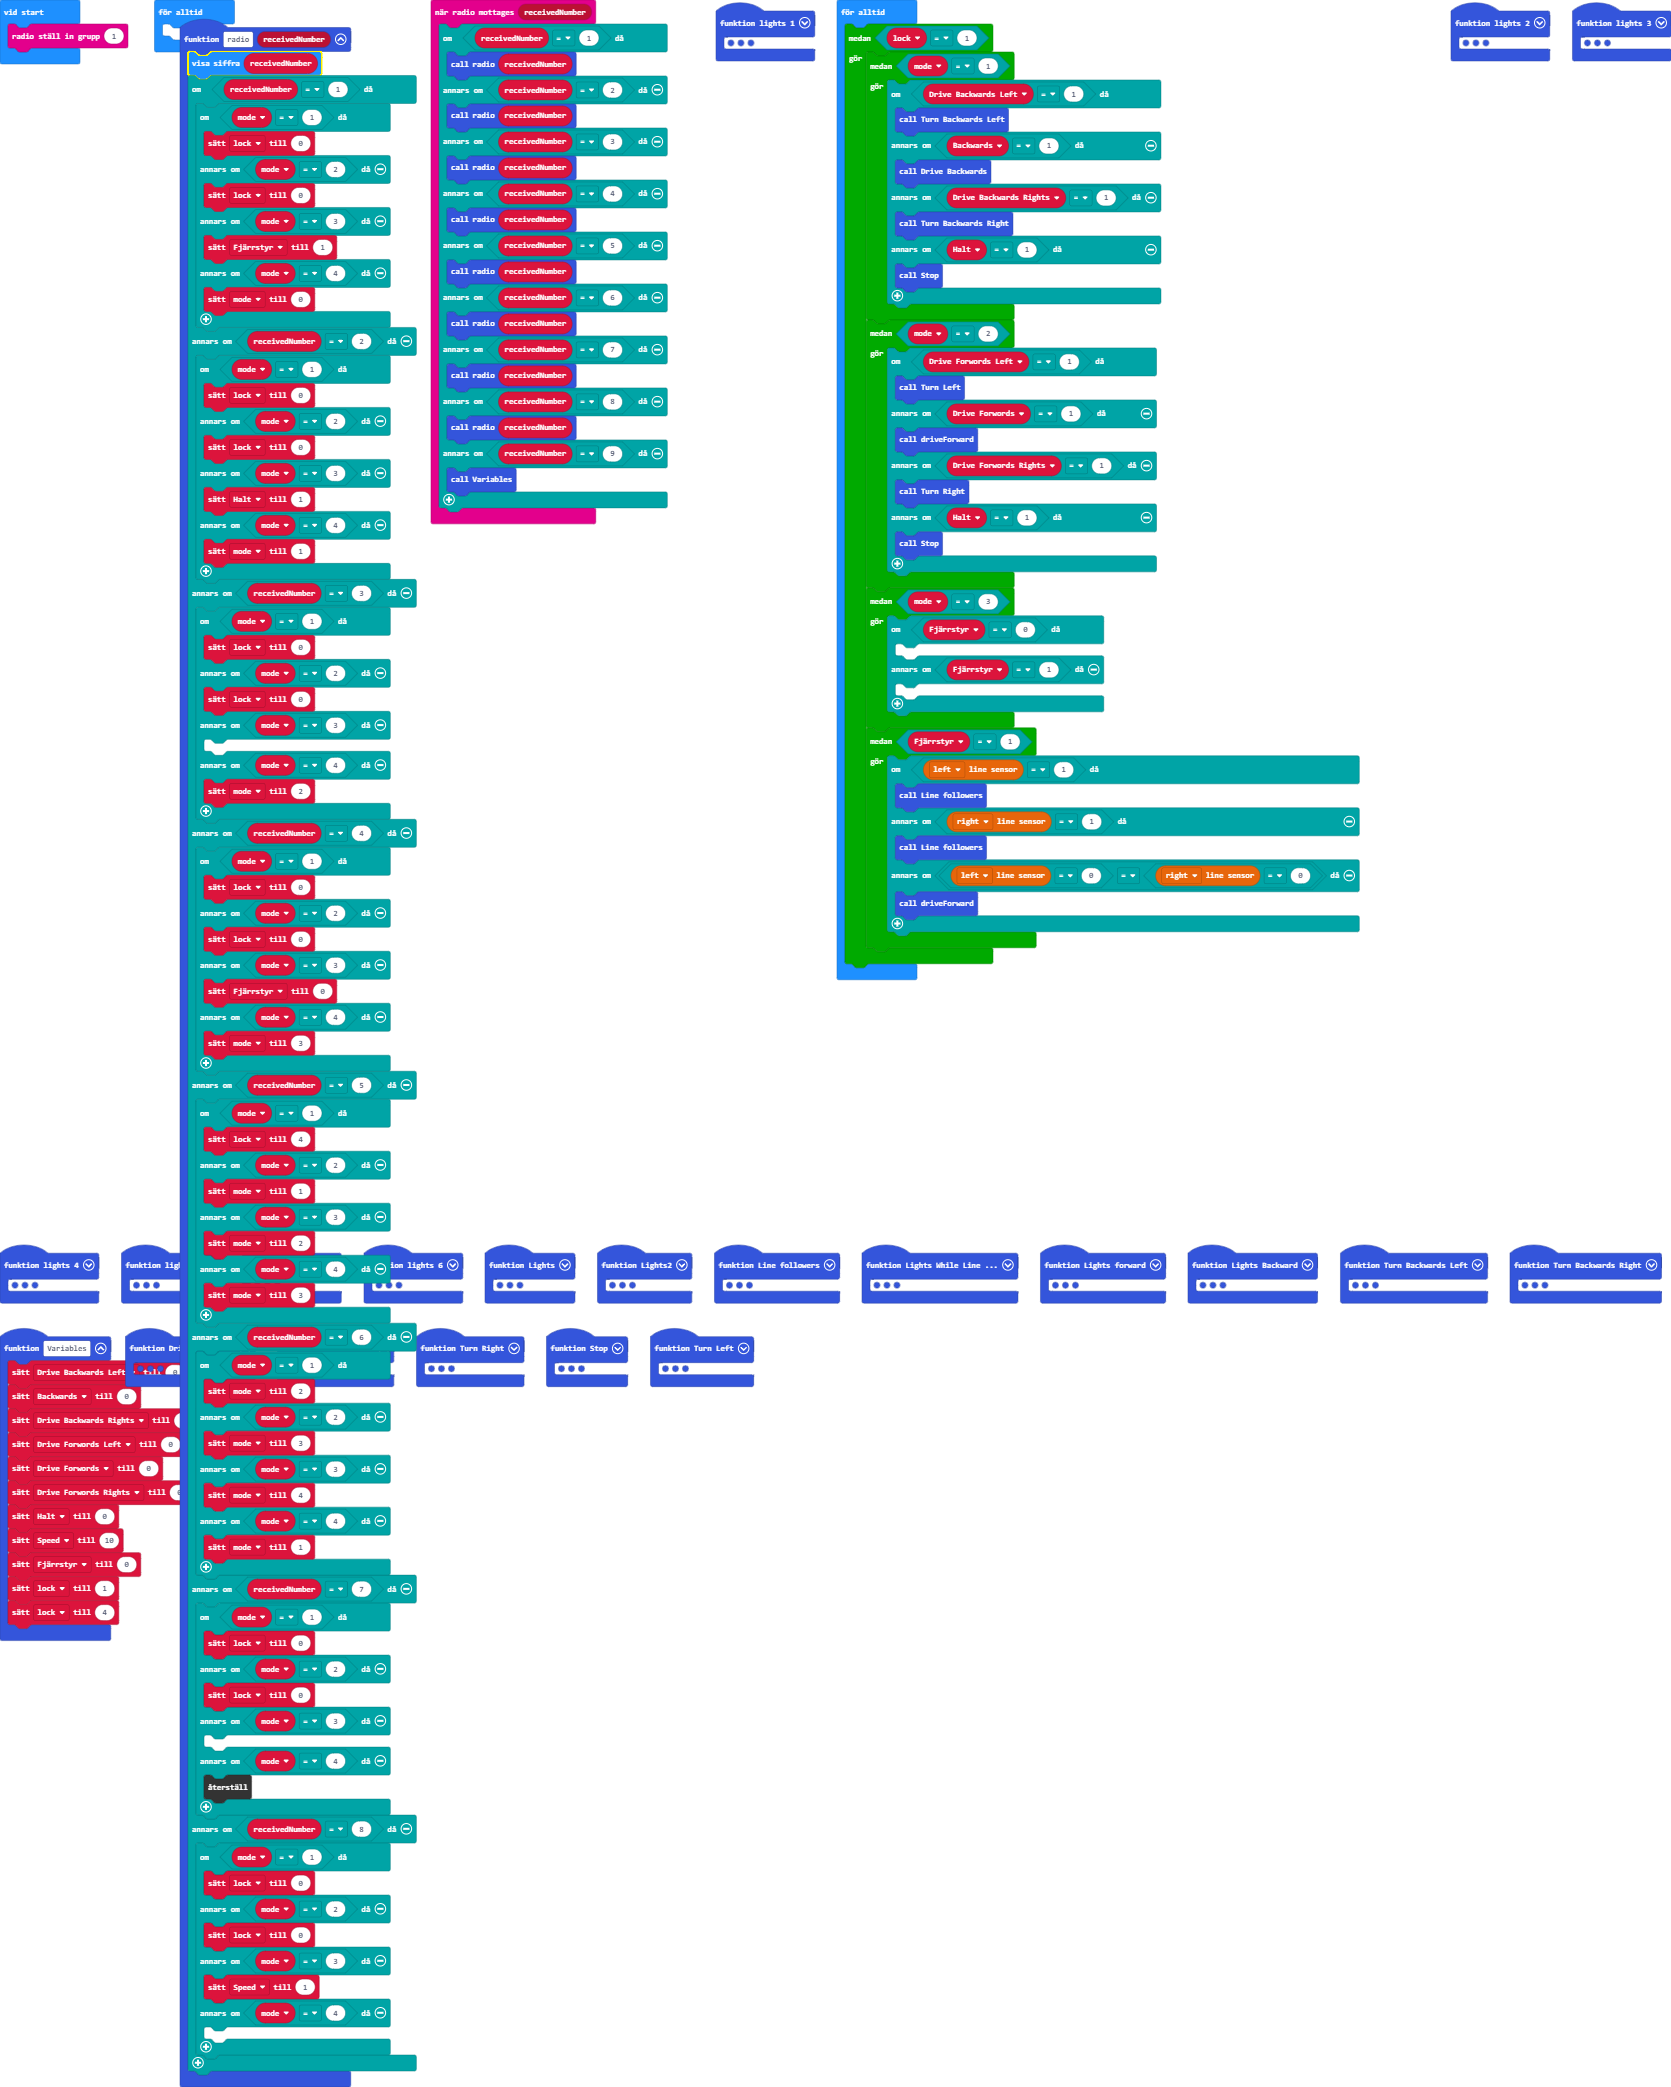
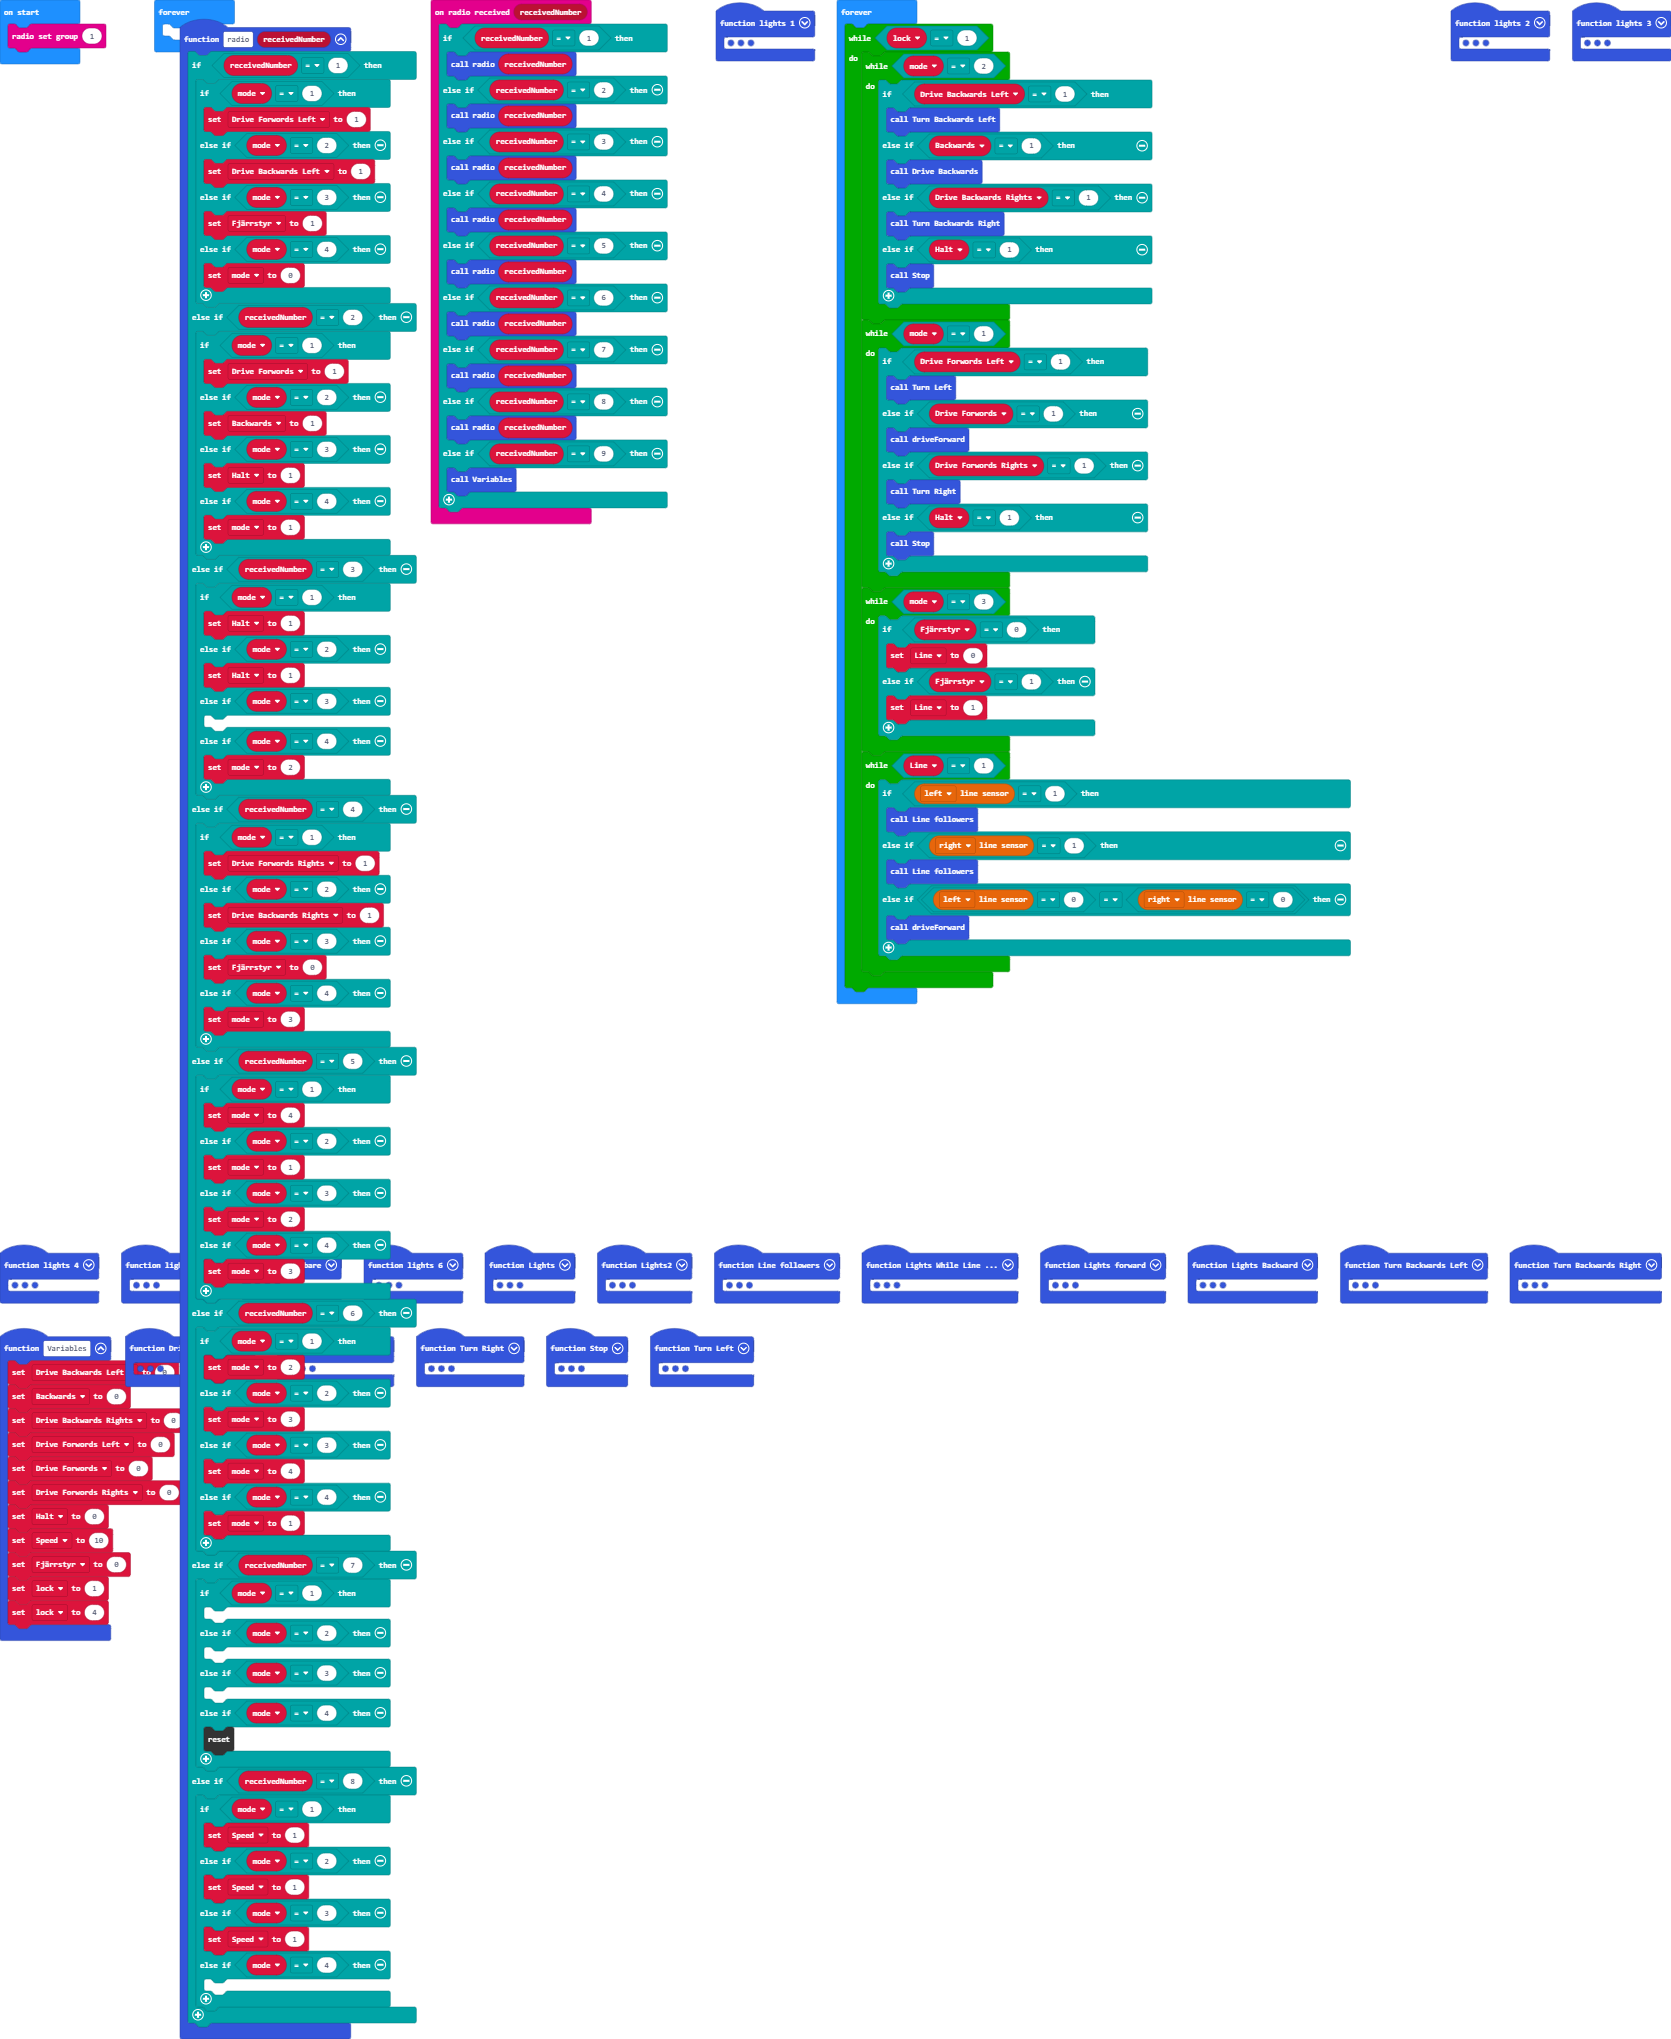
Update main.blocks, main.ts

Changed region(s): [[0.0, 0.0, 0.9958, 0.9887], [0.4357, 0.0, 0.8091, 0.4944], [0.8713, 0.0, 1.0, 0.0309]]

diff --git a/main.ts b/main.ts
@@ -152,12 +152,11 @@ function Lights2 () {
     lights_1()
 }
 function radio2 (receivedNumber: number) {
-    basic.showNumber(receivedNumber)
     if (receivedNumber == 1) {
         if (mode == 1) {
-            lock = 0
+            Drive_Forwords_Left = 1
         } else if (mode == 2) {
-            lock = 0
+            Drive_Backwards_Left = 1
         } else if (mode == 3) {
             Fjärrstyr = 1
         } else if (mode == 4) {
@@ -165,9 +164,9 @@ function radio2 (receivedNumber: number) {
         }
     } else if (receivedNumber == 2) {
         if (mode == 1) {
-            lock = 0
+            Drive_Forwords = 1
         } else if (mode == 2) {
-            lock = 0
+            Backwards = 1
         } else if (mode == 3) {
             Halt = 1
         } else if (mode == 4) {
@@ -175,9 +174,9 @@ function radio2 (receivedNumber: number) {
         }
     } else if (receivedNumber == 3) {
         if (mode == 1) {
-            lock = 0
+            Halt = 1
         } else if (mode == 2) {
-            lock = 0
+            Halt = 1
         } else if (mode == 3) {
         	
         } else if (mode == 4) {
@@ -185,9 +184,9 @@ function radio2 (receivedNumber: number) {
         }
     } else if (receivedNumber == 4) {
         if (mode == 1) {
-            lock = 0
+            Drive_Forwords_Rights = 1
         } else if (mode == 2) {
-            lock = 0
+            Drive_Backwards_Rights = 1
         } else if (mode == 3) {
             Fjärrstyr = 0
         } else if (mode == 4) {
@@ -195,7 +194,7 @@ function radio2 (receivedNumber: number) {
         }
     } else if (receivedNumber == 5) {
         if (mode == 1) {
-            lock = 4
+            mode = 4
         } else if (mode == 2) {
             mode = 1
         } else if (mode == 3) {
@@ -215,9 +214,9 @@ function radio2 (receivedNumber: number) {
         }
     } else if (receivedNumber == 7) {
         if (mode == 1) {
-            lock = 0
+        	
         } else if (mode == 2) {
-            lock = 0
+        	
         } else if (mode == 3) {
         	
         } else if (mode == 4) {
@@ -225,9 +224,9 @@ function radio2 (receivedNumber: number) {
         }
     } else if (receivedNumber == 8) {
         if (mode == 1) {
-            lock = 0
+            Speed = 1
         } else if (mode == 2) {
-            lock = 0
+            Speed = 1
         } else if (mode == 3) {
             Speed = 1
         } else if (mode == 4) {
@@ -317,15 +316,16 @@ function Variables () {
     lock = 1
     lock = 4
 }
-let Drive_Forwords_Rights = 0
-let Drive_Forwords = 0
-let Drive_Forwords_Left = 0
-let Drive_Backwards_Rights = 0
-let Backwards = 0
-let Drive_Backwards_Left = 0
-let Halt = 0
-let Fjärrstyr = 0
+let Line = 0
 let lock = 0
+let Drive_Backwards_Rights = 0
+let Drive_Forwords_Rights = 0
+let Halt = 0
+let Backwards = 0
+let Drive_Forwords = 0
+let Fjärrstyr = 0
+let Drive_Backwards_Left = 0
+let Drive_Forwords_Left = 0
 let Speed = 0
 let mode = 0
 let Led = 0
@@ -335,7 +335,7 @@ basic.forever(function () {
 })
 basic.forever(function () {
     while (lock == 1) {
-        while (mode == 1) {
+        while (mode == 2) {
             if (Drive_Backwards_Left == 1) {
                 Turn_Backwards_Left()
             } else if (Backwards == 1) {
@@ -346,7 +346,7 @@ basic.forever(function () {
                 Stop()
             }
         }
-        while (mode == 2) {
+        while (mode == 1) {
             if (Drive_Forwords_Left == 1) {
                 Turn_Left()
             } else if (Drive_Forwords == 1) {
@@ -359,12 +359,12 @@ basic.forever(function () {
         }
         while (mode == 3) {
             if (Fjärrstyr == 0) {
-            	
+                Line = 0
             } else if (Fjärrstyr == 1) {
-            	
+                Line = 1
             }
         }
-        while (Fjärrstyr == 1) {
+        while (Line == 1) {
             if (bitbot.readLine(BBLineSensor.Left) == 1) {
                 Line_followers()
             } else if (bitbot.readLine(BBLineSensor.Right) == 1) {
